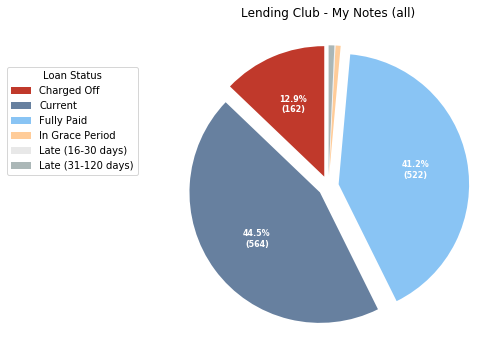
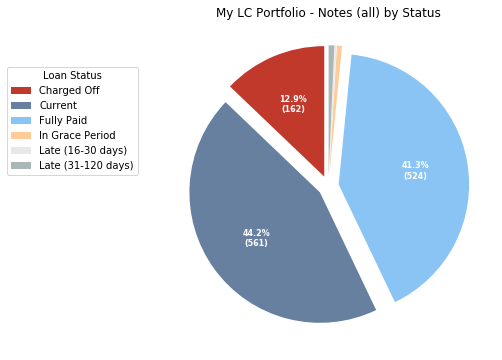
incremental check-in
incremental check-in

diff --git a/_includes/contact-us.html b/_includes/contact-us.html
@@ -22,7 +22,7 @@
 <textarea rows="5" name="message" id="message" placeholder="Your message..." class="contact-form__textarea"></textarea>
 </div>
 
-<input type="hidden" name="_next" value="https://projects.outcastsystems.com/thank-you/" />
+<input type="hidden" name="_next" value="https://tlm13.com/thank-you/" />
 <input type="hidden" name="_subject" value="Contact form submission, tlm13 website" />
 <input type="text" name="_gotcha" style="display: none;" class="contact-form__gotcha" val="" />
 

diff --git a/_projects/tlm-website.md b/_projects/tlm-website.md
@@ -1,7 +1,7 @@
 ---
 title: tlm13 Website
 date: 2020-02-29 19:34:30 Z
-excerpt: This website is an area where I get to explore and learn.
+excerpt: How I arrived at a Jekyll based website.
 header:
   overlay_image: "https://cdn.filestackcontent.com/resize=w:1280,h:380,fit:crop/compress/THb1f9EkR8y1WHWLXZwz"
   overlay_filter: 0.6
@@ -15,17 +15,154 @@ tags:
 last_modified_at:  2020-03-04 10:10:00 -0500
 ---  
 
+I decided having an online presence would be useful as I move forward, however I am not 100% clear what kind of website would best suit my needs. I have some Drupal experience from a previous project and I did a quick inspection of all the popular options today - Wix, Squarespace, WordPress, and others. They each seemed great in isolation, but intuitively I didn't feel like they were ideal fits for me. This project summary will outline how I ended up with a Jekyll based website.
+
+
+
+## Broad Requirements and Relative Priority
+
+My first step was to group the requirements into priority tiers, to ensure the most important considerations carried the most sway.
+
+
+### Universal Tier  
+- **Goal for site / what do I want out of site**  
+  Currently my goal for this website is to share selected projects and writings. I like to think, I like to learn, and I like to experiment. Having a forum to share these projects connects the sometime private work of learning to something more visible.
+
+
+- **What do I want visitors to do on the site**  
+  From a functionality perspective, it is straight forward, two main areas I want visitors to be able to do:  
+    1. Find and read content, hopefully interesting or helpful to you.  
+    2. Be able to reach out to me if you want to get in touch.  
+
+
+These requirements would be the same for all potential solution options. There are many ways to implement a solution to meet these requirements. As a result, there is very little influence these considerations would have in choosing one option over another.
+
+
+
+### Tier 1
+
+Dimensions with the most influence.  
+
+- **Cost**  
+  Whatever comes next for me, will be bootstrapped, so the least expensive, on a monthly cash-flow basis, will be preferred
+
+- **Content**  
+  Right now, the vast majority of the content I plan on authoring will be static.
+
+- **Flexibility**   
+  With so many future unknowns, I can envision having to migrate to a different solution in the future. By flexibility, I mean the ease of migrating of content, as well as ease of winding down existing site.   
+
+
+### Tier 2  
+
+Dimensions with moderate influence.  
+
+- **Existing Skills / Resources**   
+  Want continue / use existing skills to hit the ground running.
+
+  I have used templating tools in the past (Jinja, Liquid).  
+
+  I currently write some content in markdown, so obviously have markdwon content and experience.
+
+
+
+- **Secondary Benefits**  
+  Learning & Development...
+
+  Through this project a goal is to gain, develop, or deepen experience with technologies used in this project.
+
+  I have used Drupal in previous projects, so am comfortable with CMS-backed, dynamic websites. I wanted to some practical experience with static-site generators.
+
+
+
+
+### Tier 3  
+
+Dimensions with the least influence.  
+
+- **User base**  
+  Currently it is only me and I do not need a fancy user interface.
+
+- **Ecosystem**  
+  The simpler and fewer the better. Cost is the primary driver, with secondary consideration for re-use of existing platforms.
+
+  A reminder to be mindful of the Tier 2 "Secondary Benefits" priority, if it a platform where I would like additional experience on, that influence the technology choices.
+
+
+- **Classic Web Stuff**  
+  Most of these will be covered by learning how to use the technology selected or re-using existing tools. That is, how hard is it to use the technology selected to build a reasonably decent looking website. As a result, these areas, while important, were not considered independently.
+
+  - domain name ... uh, [see about page](/about/){: target="_blank"} for naming this site  
+  - registry ... re-use existing provider
+  - hosting ... driven by Tier 1 &  Tier 2 considerations.
+  - design ...  any solution will have templates / themes, so pick a theme that seems reasonable.   
+  - branding ... do the minimum amount of branding to see how things evolve and adjust along the way.  
+  - UX / Navigation ... similar to "design", pick a reasonable theme; learn and adjust along the way.
+
+
+***  
+***  
+***  
+
+- **Cost**   
+
+- **Content**   
+
+- **Flexibility**  
+  Things have a way of changing, evolving once they are released to the wild. That is, I expect evolution once I start getting feedback.
+
+- **User base**  
+  Right now, this is a solo-endeavor.  I am comfortable with coding, markdown, using the command-line (terminal), etc.  So the lack of an admin or content editing UI is not an issue.  
+
+- **Ecosystem**    
+  In general, Fewer accounts, fewer servers  
+
+-  **Classic Web Stuff**   ... domain name, registrar,  hosting, Design, Branding, UX / Navigation, Mobile / Responsive  
+
+- **What do I want to do**  
+
+- **What do I want visitors to do**  
+
+
+
+- Misc
+  - Version Controlled content
+  - Re-using knowledge
+    - markdown
+    - templating (Jinja2, Liquid)
+    - GitHub  
+
+
 This website is definitely a recent project of mine.  My personal website (this one) as well as another project I am working didn't require an immediate web presence, but I knew it would soon.  After poking around many, many options, and all of them are pretty good, I wasn't ready to put down any money so I started looking at free options.  
 
 
 On a few projects, which I can't yet discuss, use markdown, and Jinja templates for content, so I was looking for markdown, Jinja-esque website solutions. Jekyll seemed to be pretty close, and when I learned that GitHub pages uses Jekyll I was sold.  
 
 
+***  
+***  
+***  
+## Broad Requirements / Considerations  
+
+- Goal for site / what do I want out of site
+- What do I want visitors to do on the site  
+- Classic Website Stuff: Domain name, registrar, hosting, design (mobile, responsive), branding, UX / navigation,  - Tier 3
+- Cost - Tier 1
+- Content - Tier 1
+- Flexibility - Tier 1
+- User base  - Tier 3
+- Ecosystem - Tier 3
+- Existing Skills / Resources  - Tier 2
+- Secondary Benefits - Tier 2
 
 
-## Technology Used  
-- Jekyll
-- markdown
+
+
+## Misc. Technology Used  
+- **Static Site Generator:** Jekyll  
+  - Current Theme: [Minimal Mistakes](https://mmistakes.github.io/minimal-mistakes/){: target="_blank"}
+- **Content Authoring Format:** markdown  
+- **Content Versioning:** GitHub  
 
 ## Applications & Tools
 - Atom Text Editor
@@ -33,15 +170,15 @@ On a few projects, which I can't yet discuss, use markdown, and Jinja templates 
 - Affinity Photo
 - GitHub Desktop Client
 
-## Platforms   
-- GitHub pages (Website hosting)
-- GoDaddy (Domain Registry)
-- Formspree  (Forms)
-- Filestack (CDN)  
+## Platforms, Servers, Hosting   
+- **Website Hosting:** GitHub pages
+- **Domain Registry, DNS:** GoDaddy
+- **Forms:**  Formspree
+- **CDN:** Filestack  
 
-## Imagery
-- [Unsplash](https://unsplash.com)  
-- [iStock](https://www.istockphoto.com)
+## Photos and Imagery
+- [Unsplash](https://unsplash.com){: target="_blank"}  
+- [iStock](https://www.istockphoto.com){: target="_blank"}
 - My own work  
 
 ## Other Gear

diff --git a/_pages/about.md b/_pages/about.md
@@ -1,19 +1,46 @@
 ---
-title: About
-permalink: "/about/"
+title: "  "
+permalink: /about/
+layout: single
+header:
+  image: "https://cdn.filestackcontent.com/resize=w:1280/crop=dim:[0,155,1280,380]/compress/pTQqXXWOQuWmvDyLMC0n"
+  caption: Photo by Kelly Sikkema on Unsplash
+
+
+classes: wide
 ---
 
-## About the Site
+## About the Name
 
-First the basics, what kind of title is **tlm13?**  
+First, what kind of title is **tlm13?**  
 
-Well, `tlm13` is my very first email handle \ username, assigned to me by my college way back in the fall of 1992. What can I say, I'm sentimental.  
+Well, `tlm13` is my very first email handle \ username, assigned to me by my college way back in the fall of 1992. Over the years, I have occasionally used `tlm13` as a placeholder, and this case, I decided to keep the monicker a bit longer. What can I say, I'm sentimental.
 
-
-And about the site; I've found myself in a bit of a transition, and I'm not exactly sure what's next. This site is a place to share what I am working on and what I am interested in. I think I bring some interesting skills, experiences, and approaches to the table. I am cautiously optimistic by sharing my work, perhaps some opportunities will appear, so if you have some challenges where you think I can help, let me know. I do enjoy interesting challenges.  
-
-
-It is very early days for this website, but as of now, I envision this to be a home for me to share my projects, and thoughts on various topics, and through actual demonstration, you'll learn more about me, than a simple paragraph or two on an about page.
+And about the site; I've found myself in a bit of a transition, and I'm not exactly sure what's next, but I have been researching and studying things that interest me. This site is part of a learning, exploration, and demonstration process for me; a place to share what I am working on and what I am interested in.
 
 
-If you would like a more formal review of credentials and work experience, I suggest a review of my LinkedIn profile is on the left.
+## About the Content  
+
+### Goals  
+The are a number of goals for content on this site. The first is to convey information related to a topic. For example, If I am writing about a trend in the stock market, I hope to convey information, understanding, and possibly an argument or position about the stock market. The second, is a demonstration of relevant skills and abilities. Continuing with with the stock market example, what data is presented ? What visualizations and charts were used ?  Were they built or copied?  Thinking, learning, judgement, and decisions are often invisible, but critically important to success of projects. The third goal for content on this website is to expose as much of these invisible elements as I can, to attempt to make more of my thinking visible.  
+
+No single piece of content can accomplish all of these goals. The aim is a well-rounded website.  Individual pieces of content will aim at specific goals, and if well executed, the collection of pages will demonstrate all goals.
+
+
+### Types
+Currently, there are two main types of content on this site, **Posts** and **Projects**. [Posts](/posts) are just that, my writing on a particular topic. However, a particular post may require research, analysis, or additional supporting work. This supporting work I am summarizing as [Projects](/projects) pages. The project summaries will include a description of all the technologies used, as well as discussions of methodologies and approaches where applicable. In some cases I will include links to relevant code.
+
+There may also be project pages that are not related to any posts. The first example is [the project around this website.]({% link _projects/tlm-website.md %})
+
+If you are interested in specific technologies or tools, browsing the project list might be more fruitful for you.
+
+Additional content types might be added in the future.
+
+
+## Get in Touch  
+
+If you have some projects or challenges where you think I can help, let me know; I do enjoy interesting work, interesting people, and talking shop.  
+
+Feel free to [contact me](/contact/) if you want to discuss anything related to the site or if you have a problem, project, or opportunity you would like to discuss.
+
+If you would like a more formal review of my work experience and credentials, I suggest a review of my [LinkedIn profile.](https://www.linkedin.com/in/mcmasty/)

diff --git a/_posts/2020-02-20-lending-club-part-one.md b/_posts/2020-02-20-lending-club-part-one.md
@@ -117,7 +117,16 @@ The approach for this analysis will be from broad strokes and refine based on wh
 
 ##  Mixing loan status to histograms 
 
-{% include figure image_path="/assets/images/lc/my_portfolio_ovintage_stacked_bar.png" alt="portfolio stacked bar" caption="My Portfolio by O-Vintage (aka order date year and status)." %}
+{% include figure image_path="/assets/images/lc/my_portfolio_ovintage_stacked_bar.png" alt="portfolio order vintage stacked bar" caption="My Portfolio by O-Vintage (aka order date year and status)." %}
+
+
+{% include figure image_path="/assets/images/lc/my_portfolio_ivintage_stacked_bar.png" alt="portfolio issue vintage stacked bar" caption="My Portfolio by I-Vintage (aka issue date year and status)." %}
+
+
+
+{% include figure image_path="/assets/images/lc/my_portfolio_by_status_pie_count_completed.png" alt="portfolio pie chart completed " caption="My Portfolio by Loan (completed) Status (count)." %}
+
+
 
 
 [Here is summary]({% link _projects/lending-club-summary.md %}) of the data analysis project supporting this post.

diff --git a/_projects/lending-club-summary.md b/_projects/lending-club-summary.md
@@ -14,6 +14,7 @@ tags:
 - Numpy
 - Pandas
 last_modified_at: 2020-03-02 21:20:02 Z
+excerpt: "Python & Pandas: Analyzing my Lending Club portfolio and Lending Club historical data"
 ---  
 
 A summary of the technical aspects of analyzing my Lending Club portfolio as well as Lending Club historical data.
@@ -45,6 +46,9 @@ A summary of the technical aspects of analyzing my Lending Club portfolio as wel
 - Convert JSON to Pandas DataFrame  
 - Perform clean-up and feature engineering.  
 - Save cleansed DataFrame  
+
+
+You can [browse the notebook](https://github.com/mcmasty/stunning-fortnight/blob/master/lending_club_analysis/My%20LC%20Portfolio%20Notes%20Analysis.ipynb){: target="_blank"}  I used to analyze my lending club portfolio on GitHub.
 
 
 **LC Historical Data**   

diff --git a/_pages/thank-you.md b/_pages/thank-you.md
@@ -4,9 +4,10 @@ layout: single
 classes: wide
 permalink: /thank-you/
 header:
-  image: /assets/images/morvanic-lee-GiUJ02Yj_io-unsplash.jpg
+  image: "https://cdn.filestackcontent.com/resize=w:1280,h:400,fit:crop/compress/61nTvNsOSLuvlNVFi3ua"
+  caption: Photo by Morvanic Lee on Unsplash
 excerpt:
 ---
 
 
-I'll get back to you in day or two.
+I'll be in touch shortly.

diff --git a/README.md b/README.md
@@ -1,4 +1,3 @@
-# Playing with Minimal Mistakes Jekyll Theme 
+# My personal / 
 
 Fork this repo for the quickest method of getting started with the [Minimal Mistakes Jekyll theme](https://github.com/mmistakes/minimal-mistakes).
-

diff --git a/_pages/projct-tag-archive.md b/_pages/projct-tag-archive.md
@@ -1,0 +1,7 @@
+---
+title: Projects by Tag
+permalink: "/project-tags/"
+collection: projects
+layout: tags
+author_profile: true
+---

diff --git a/_pages/contact.md b/_pages/contact.md
@@ -1,0 +1,7 @@
+---
+title: Get in Touch
+layout: splash
+permalink: /contact/
+---
+
+{% include contact-us.html %}  
